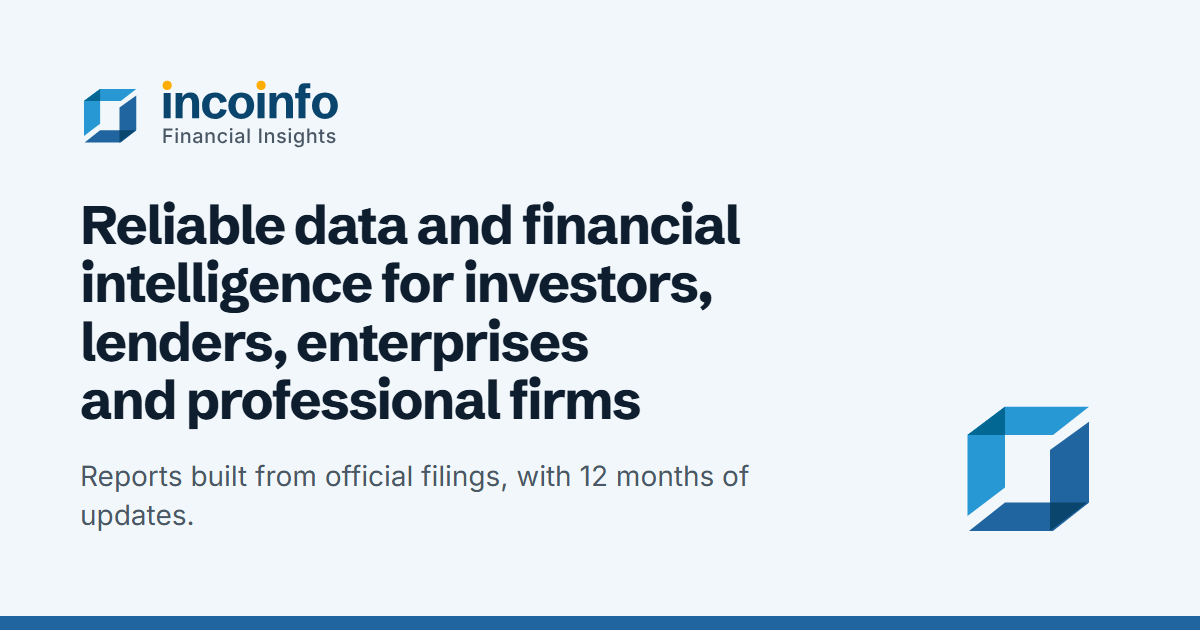
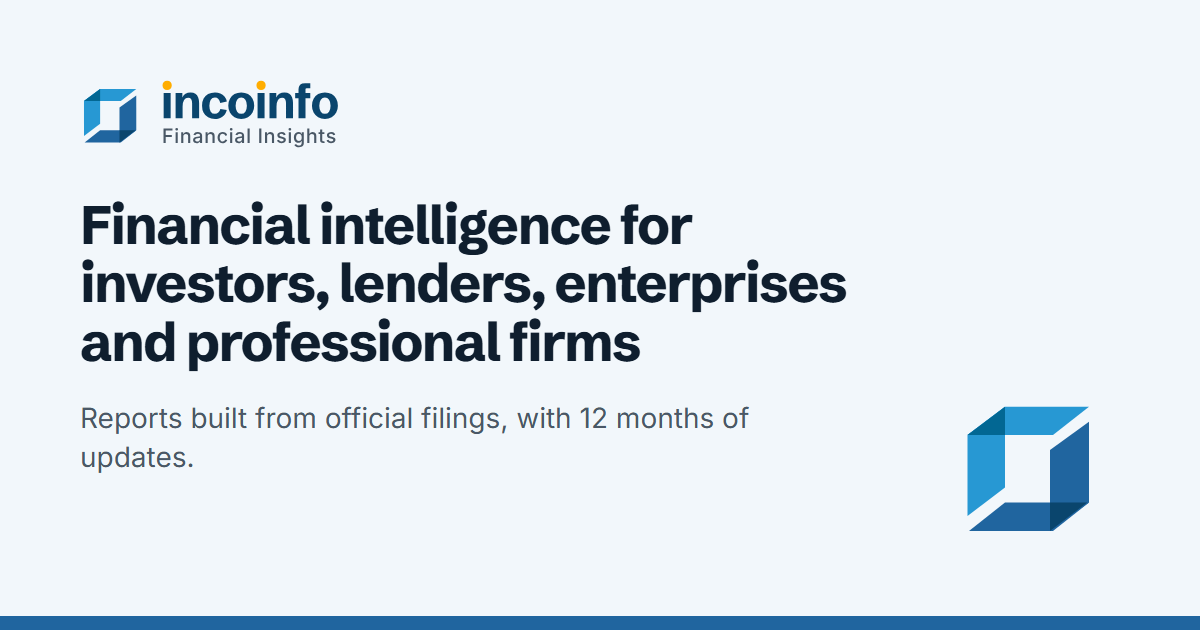
Hero headline: start with 'Financial intelligence for…'; match description and share image

Changed region(s): [[0.0617, 0.3016, 0.7092, 0.8444]]

diff --git a/docs/index.html b/docs/index.html
@@ -4,7 +4,7 @@
     <meta charset="UTF-8" />
 <meta name="viewport" content="width=device-width, initial-scale=1" />
 <title>incoinfo — Financial intelligence for investors, lenders, enterprises and professional firms</title>
-<meta name="description" content="Reliable data and financial intelligence for investors, lenders, enterprises and professional firms. Reports built from official company filings: financials, directors, shareholding, charges and compliance, with 12 months of updates." />
+<meta name="description" content="Financial intelligence for investors, lenders, enterprises and professional firms. Reports built from official company filings: financials, directors, shareholding, charges and compliance, with 12 months of updates." />
 <link rel="canonical" href="https://www.incoinfo.com/" />
 <meta name="theme-color" content="#0A456D" />
 <link rel="icon" href="./favicon.svg" type="image/svg+xml" />
@@ -13,12 +13,12 @@
 <meta property="og:type" content="website" />
 <meta property="og:site_name" content="incoinfo" />
 <meta property="og:title" content="incoinfo — Financial intelligence for investors, lenders, enterprises and professional firms" />
-<meta property="og:description" content="Reliable data and financial intelligence for investors, lenders, enterprises and professional firms. Reports built from official company filings: financials, directors, shareholding, charges and compliance, with 12 months of updates." />
+<meta property="og:description" content="Financial intelligence for investors, lenders, enterprises and professional firms. Reports built from official company filings: financials, directors, shareholding, charges and compliance, with 12 months of updates." />
 <meta property="og:url" content="https://www.incoinfo.com/" />
 <meta property="og:image" content="https://www.incoinfo.com/og-image.png" />
 <meta name="twitter:card" content="summary_large_image" />
 <meta name="twitter:title" content="incoinfo — Financial intelligence for investors, lenders, enterprises and professional firms" />
-<meta name="twitter:description" content="Reliable data and financial intelligence for investors, lenders, enterprises and professional firms. Reports built from official company filings: financials, directors, shareholding, charges and compliance, with 12 months of updates." />
+<meta name="twitter:description" content="Financial intelligence for investors, lenders, enterprises and professional firms. Reports built from official company filings: financials, directors, shareholding, charges and compliance, with 12 months of updates." />
 <meta name="twitter:image" content="https://www.incoinfo.com/og-image.png" />
 <script>
   (function () {
@@ -39,7 +39,7 @@
         "name": "incoinfo",
         "url": "https://www.incoinfo.com/",
         "logo": "https://www.incoinfo.com/logo.png",
-        "description": "Reliable data and financial intelligence for investors, lenders, enterprises and professional firms, compiled from official company filings.",
+        "description": "Financial intelligence for investors, lenders, enterprises and professional firms, compiled from official company filings.",
         "email": "support@incoinfo.com",
         "address": { "@type": "PostalAddress", "addressLocality": "Mumbai", "addressRegion": "Maharashtra", "addressCountry": "IN" },
         "contactPoint": { "@type": "ContactPoint", "contactType": "customer support", "email": "support@incoinfo.com", "availableLanguage": ["en"] }
@@ -172,7 +172,7 @@
 
         <div class="container-x hero-grid">
           <div class="hero-copy">
-            <h1 id="hero-title">Reliable data and financial intelligence for investors, lenders, enterprises and professional firms</h1>
+            <h1 id="hero-title">Financial intelligence for investors, lenders, enterprises and professional firms</h1>
             <p class="lede hero-lede">
               Search millions of private and public entities, review verified government filings, and download
               comprehensive financial profiles, on demand and with transparent pay-per-company packages.

diff --git a/index.html b/index.html
@@ -1,7 +1,7 @@
 <!doctype html>
 <html lang="en">
   <head>
-    <!-- @include head title="incoinfo — Financial intelligence for investors, lenders, enterprises and professional firms" description="Reliable data and financial intelligence for investors, lenders, enterprises and professional firms. Reports built from official company filings: financials, directors, shareholding, charges and compliance, with 12 months of updates." path="/" -->
+    <!-- @include head title="incoinfo — Financial intelligence for investors, lenders, enterprises and professional firms" description="Financial intelligence for investors, lenders, enterprises and professional firms. Reports built from official company filings: financials, directors, shareholding, charges and compliance, with 12 months of updates." path="/" -->
     <script type="application/ld+json">
       {
         "@context": "https://schema.org",
@@ -9,7 +9,7 @@
         "name": "incoinfo",
         "url": "%SITE_URL%/",
         "logo": "%SITE_URL%/logo.png",
-        "description": "Reliable data and financial intelligence for investors, lenders, enterprises and professional firms, compiled from official company filings.",
+        "description": "Financial intelligence for investors, lenders, enterprises and professional firms, compiled from official company filings.",
         "email": "support@incoinfo.com",
         "address": { "@type": "PostalAddress", "addressLocality": "Mumbai", "addressRegion": "Maharashtra", "addressCountry": "IN" },
         "contactPoint": { "@type": "ContactPoint", "contactType": "customer support", "email": "support@incoinfo.com", "availableLanguage": ["en"] }
@@ -25,7 +25,7 @@
 
         <div class="container-x hero-grid">
           <div class="hero-copy">
-            <h1 id="hero-title">Reliable data and financial intelligence for investors, lenders, enterprises and professional firms</h1>
+            <h1 id="hero-title">Financial intelligence for investors, lenders, enterprises and professional firms</h1>
             <p class="lede hero-lede">
               Search millions of private and public entities, review verified government filings, and download
               comprehensive financial profiles, on demand and with transparent pay-per-company packages.
